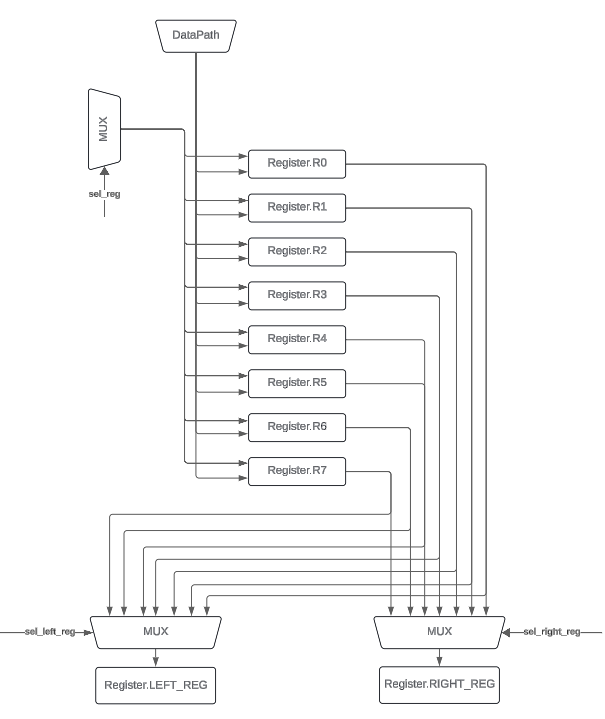
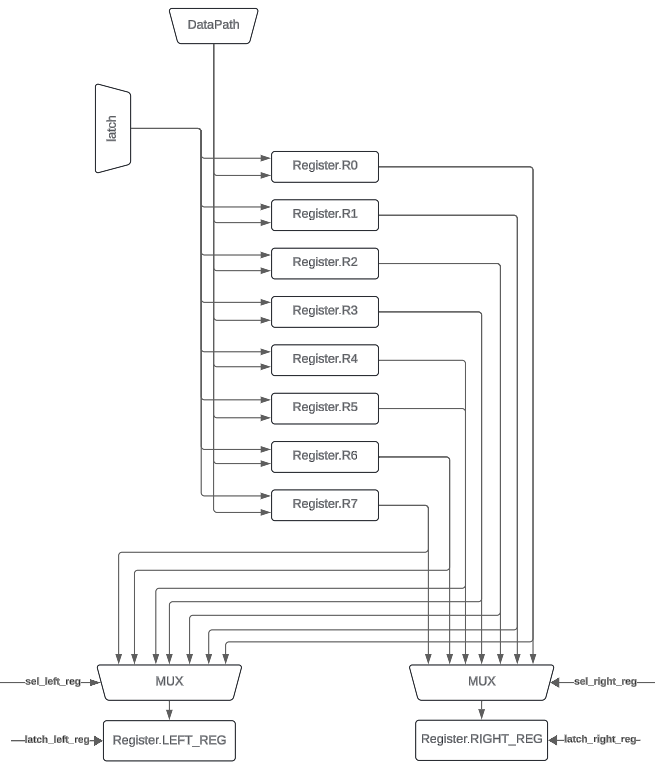
draft readme.md

Changed region(s): [[0.0298, 0.0, 0.9818, 1.0], [0.5653, 0.6426, 0.595, 0.6732]]

diff --git a/README.md b/README.md
@@ -1,4 +1,4 @@
-## Транслятор и модель
+## Asm. Транслятор и модель
 
 * Хоробрых Даниил Евгеньевич, P3216
 * asm | risc | neum | mc -> hw | instr | struct | stream | mem | pstr | prob2 | cache
@@ -74,9 +74,9 @@ ___
 - `inc reg`: Увеличить значение в регистре `reg` на 1.
 - `dec reg`: Уменьшить значение в регистре `reg` на 1.
 - `neg reg`: Изменить знак значения в регистре `reg`.
-- `CMP reg1 reg2`: Сравнить значения в регистрах `reg1` и `reg2`.
-- `TEST reg1 reg2`: Побитовое И значений в регистрах `reg1` и `reg2`.
-- `JMP label`: Перейти к метке `label`.
+- `cmp reg1 reg2`: Сравнить значения в регистрах `reg1` и `reg2`.
+- `test reg1 reg2`: Побитовое И значений в регистрах `reg1` и `reg2`.
+- `jmp label`: Перейти к метке `label`.
 - `jz label`: Перейти к метке `label`, если результат предыдущей команды сравнения был нулевым.
 - `jnz label`: Перейти к метке `label`, если результат предыдущей команды сравнения был ненулевым.
 - `jge label`: Перейти к метке `label`, если результат предыдущей команды сравнения был больше или равен нулю.
@@ -121,8 +121,21 @@ ___
 - В `0` ячейке располагается команда `jmp first_address`, которая отвечает за переход счетчика команд к первой команде (в машине программа начинает исполняться всегда с `0` адреса).
 - Затем идут 2 ячейки с адресами `1` и `2` которые в памяти не используются, а отвечают за перенаправление данных из/в внешние устройства (`input address` и `output_address` соответственно). В программе реализуется memory-mapped архитектура взаимодействия с внешними устройствами.
 - Начиная с `3` ячейки располагаются переменные, определенные в секции `.data`, а также адреса для перехода по меткам из кода. Все данные в памяти хранятся в целочисленном виде, строки хранятся посимвольно и перед записью преобразуются в ASCII-код. Хранение строк реализовано в формате `pstr` (сначала загружается длина строки, затем в следующих `n` строках - символы).
-- После всех данных с начинают располагаться инструкции программы из секции `.code`. 
+- После всех данных с начинают располагаться инструкции программы из секции `.code`.
 
+#### Регистры
+![RegFile Scheme](images/reg_file.png "Register file scheme")
+- В процессоре присутствуют 8 регистров общего назначения, пронумерованные от r0 до r7.
+- `latch_reg` - У каждого из регистров есть два входа - данные и сигнал `sel`. При вызове на DataPath сигнала `latch_register` передается конкретный регистр, в который нужно записать данные. 
+- Для выхода данных из RegFile в DataPath есть два регистра - `LEFT_REG` и `RIGHT_REG`, запись в которые происходит через MUX.
+- Регистры `LEFT_REG` и `RIGHT_REG` связаны с ALU
+- Также есть регистры, запись и чтение из/в которые пользователю недоступна:
+  * `Address Register`
+  * `Data Register`
+  * `Program Counter`
+  * `mProgram`
+  * `mpc`
+  * `program`
 ___
 ### Система команд
 
@@ -193,11 +206,11 @@ ___
 Реализовано в модуле translator
 
 Этапы транслирования (функция `translate(program: str)`):
-2) Обработка секции с данными, размещение их в памяти
-3) Обработка секции с кодом, создание списка инструкций. Создание списка меток и их адресов
-4) Расположение адресов меток в памяти данных
-5) Замена в инструкциях названий меток на их реальные адреса
-6) Замена в инструкциях `JMP, JZ, JNZ, JGE, LD, ST` относительной адресации на абсолютную. Замена команды `mov` на команду `ld`.
+1) Обработка секции с данными, размещение их в памяти
+2) Обработка секции с кодом, создание списка инструкций. Создание списка меток и их адресов
+3) Расположение адресов меток в памяти данных
+4) Замена в инструкциях названий меток на их реальные адреса
+5) Замена в инструкциях `JMP, JZ, JNZ, JGE, LD, ST` относительной адресации на абсолютную. Замена команды `mov` на команду `ld`.
 
 Также во время обработки строк кода происходит удаление комментариев и пропуск пустых строк.
 
@@ -247,8 +260,12 @@ ___
 
 Реализован в классе `ControlUnit`.
 - Микропрограммное управление
+- Есть память микрокоманд, которая включает список сигналов, которые выполняются за 1 такт
+- Моделирование производится потактово, каждый такт вызывается метод `decode_and_execute_micro_instruction` который выполняет инструкцию, расположенную по адресу mpc в памяти микрокоманд. Состояние процессора во время каждого такта записывается в журнал
+- Сигналы, требующие передачи конкретных регистров, изменяются в момент исполнения (в них вместо None подставляется требуемый операнд из программы). Таким способом реализована выгрузка операнда из программы.
+- Начало симуляции происходит в функции simulate. 
 
-Сигналы (обрабатываются за 1 такт, реализованы в виде методов класса):
+  Сигналы (обрабатываются за 1 такт, реализованы в виде методов класса):
 - `latch_mpc` - записать в mpc значение:
   * `+1` - mpc + 1
   * `0` - ноль
